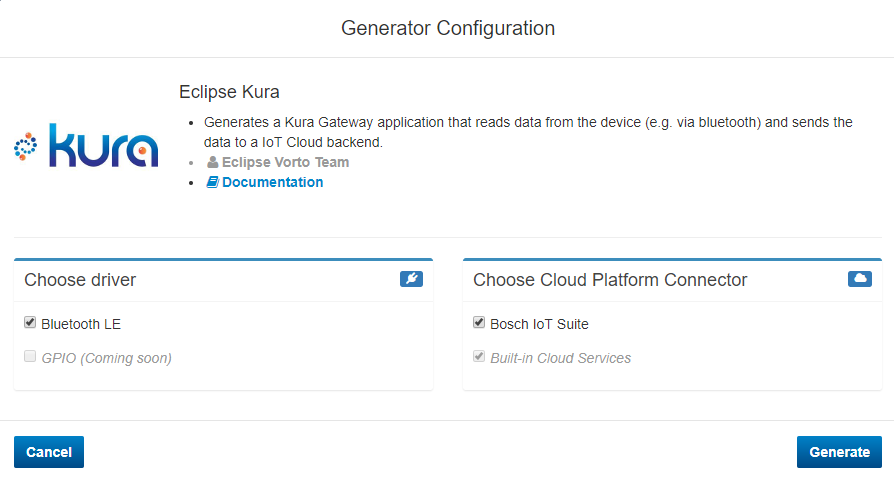
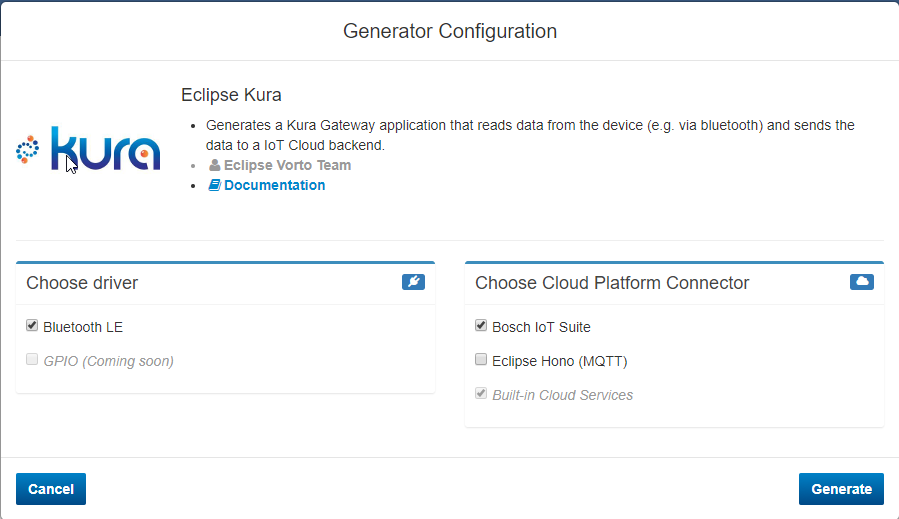
Modified the tutorial to reflect current state of the generator.

diff --git a/tutorials/tutorial_connect_xdk_ble.md b/tutorials/tutorial_connect_xdk_ble.md
@@ -6,7 +6,7 @@ In this tutorial you are going to learn how you can connect a bluetooth device t
 
 - You have successfully booked the following services:
 	- Bosch IoT Things Service
-	- Bosch IoT Permissions Service 
+	- Bosch IoT Permissions Service
 - [Publish](tutorial-create_and_publish_with_web_editor.md) an information model for the device to the Vorto Repository.    
 - [Register](tutorial_register_device.md) the device in the Bosch IoT Suite.
 
@@ -26,7 +26,7 @@ In this tutorial you are going to learn how you can connect a bluetooth device t
 2. Modify the Kura gateway on the Raspberry Pi
 
 - Change from OpenJDK to Oracle JDK
-	
+
 ```
 sudo apt-get install oracle-java8-jdk
 sudo update-alternatives --config java
@@ -72,7 +72,7 @@ More comprehensive tutorial here: <a href="http://eclipse.github.io/kura/dev/kur
 	<img src="./images/connect_xdk_kura/step5_4_1.png" width="50%"/>
 
 - Confirm your selection with **Generate**
-- Download the generated Kura bundle, unzip and import it to Eclipse workspace. The project will appear as _com.example.kura_.
+- Download the generated Kura bundle, unzip and import it to Eclipse workspace. The project will appear as _org.eclipse.vorto.kura.xdk_.
 - Add dependencies to XDK Kura bundle by executing `mvn dependency:copy-dependencies` in the root of the kura project
 - In Eclipse, refresh your project, then right-click on your project, go to _Plug-in Tools_, and click on _Update classpath_
 - Rebuild your project.
@@ -82,9 +82,9 @@ More comprehensive tutorial here: <a href="http://eclipse.github.io/kura/dev/kur
 - Download <a href="https://github.com/bsinno/iot-things-examples/blob/master/cr-integration-api-examples/common/src/main/resources/bosch-iot-cloud.jks">bosch-iot-cloud.jks</a> and store it in a "secret" folder of the kura project
 - Create a public and private key pair for your solution. Store the CRClient in the "secret" folder as well
 ```
-keytool -genkeypair -noprompt 
--dname "CN=-, OU=-, O=-, L=-, S=-, C=-" 
--keyalg EC -alias CR -sigalg SHA512withECDSA 
+keytool -genkeypair -noprompt
+-dname "CN=-, OU=-, O=-, L=-, S=-, C=-"
+-keyalg EC -alias CR -sigalg SHA512withECDSA
 -validity 365 -keystore CRClient.jks
 ```
 - Extract the public key information into a separate file
@@ -104,7 +104,7 @@ keytool -printcert -rfc -file CRClient_key.cer
 - The Virtual XDK Firmware
 
 The Virtual XDK firmware for the XDK was originally developed to show sensor values on mobile devices. As such, they were designed to give all sensor values as a stream in one go.
-The sensors value stream is started by writing '00' on UUID handle _0x0039_. You can then read the continues stream of sensor values at UUID handle _0x0034_ and _0x0036_. The _0x0034_ contains values for 
+The sensors value stream is started by writing '00' on UUID handle _0x0039_. You can then read the continues stream of sensor values at UUID handle _0x0034_ and _0x0036_. The _0x0034_ contains values for
 either a computed orientation or accelerometer and gyrometer. This behaviour is controlled by a flag that we will ask you to modify in Step #6. The _0x0036_ can be two streams. If it starts with 01,
 then it contains values for the light sensor, noise sensor, pressure, temperature, humidity, sd card status, and button 1/2 states. If it starts with 02, then it contains values for the magnetometer,
 and led states.
@@ -115,7 +115,7 @@ The Vorto-generated XDK Kura Bundle is an OSGI-compliant bundle generated by Vor
 which can simplify development for Kura and bluetooth LE devices. Its main class, the `XDKBluetoothFinder`, implements a scanner for bluetooth LE devices, and for each found device, adds a skeleton framework for filtering (`XDKDeviceFilter.java`),
 mapping to information model(`DeviceToXDKTransformer.java`), and consuming (`XDKConsumer.java`). It also implements a configuration system for enabling/disabling each function block (which allows it to be controlled from Kura's web application),
 and several other configurable properties.
-	
+
 ### 6. Flash Virtual XDK firmware
 
 - Download XDK workbench [<a href="https://xdk.bosch-connectivity.com/software-downloads">https://xdk.bosch-connectivity.com/software-downloads</a>]
@@ -127,27 +127,27 @@ and several other configurable properties.
 ### 7. Read temperature from Bluetooth in the XDK Kura Bundle
 
 - First, we filter for the devices that belong to us. With the Virtual XDK Firmware, any devices whose name starts with 'BCDS' is an XDK flashed with Virtual XDK. We use that predefined name to filter for devices.
-	In _XDKDeviceFilter.java_, change the `test` method to 
+	In _XDKDeviceFilter.java_, change the `test` method to
 	```
 	public boolean test(BluetoothDevice bluetoothDevice) {
 		return bluetoothDevice.getName().contains("BCDS");
 	}
 	```
-	
+
 - In _DeviceToXDKTransformer.java_, in the method `getResourceId(...)`, modify the method to how you intend to generate the ThingID of your XDK Thing. Make sure this aligns with the ThingID of the Thing you precommissioned in the Register step [<a href="https://github.com/eclipse/vorto/blob/development/tutorials/tutorial_register_device.md">Register</a>]
 	```
 	private String getResourceId(BluetoothDevice device) {
 		return "XDK:" + device.getAdress().replace(":", "");
 	}
 	```
-	
+
 - Create a new package in the Kura bundle, name it _com.example.kura.device_. We will put classes that implements reading from the XDK here.
 
 - In the new package, create a model class to hold the response data from the XDK. Let's also give it the responsibility to segregate string responses according to what type of sensor values it holds.
-	
+
 	Let's create the class _XDKSensorDataResponse_. You can download the full class here [<a href="https://github.com/eclipse/vorto/blob/development/tutorials/sample_codes/tutorial_connect_xdk_ble/XDKSensorDataResponse.txt">XDKSensorDataResponse.java</a>].
-	
-	Here are the juicy tidbits of this class. 
+
+	Here are the juicy tidbits of this class.
 	```
 	public boolean accept(String response) {
 		if (response != null) {
@@ -161,62 +161,62 @@ and several other configurable properties.
 			} else {
 				return false;
 			}
-			
+
 			return true;
 		}
-		
+
 		return false;
 	}
 	public boolean isComplete() {
 		return accAndGyro.isPresent() && environmentSensor.isPresent() && magnetometerLedStatus.isPresent();
 	}
-	
+
 	public boolean isPartiallyComplete() {
 		return accAndGyro.isPresent() || environmentSensor.isPresent() || magnetometerLedStatus.isPresent();
 	}
 	```
 	`accept(...)` accepts a string and classifies the type of information in it. The last two functions are helper functions to check if we have a complete set of sensor informations.
-	
+
 - In the new package, create our own implementation of Kura's bluetooth gatt. This is because Kura's implementation uses a different command to write a string, which doesn't trigger the Virtual XDK firmware.
 
 	Let's create a class called _XDKBluetoothGatt_ that implements _org.eclipse.kura.bluetooth.BluetoothGatt_. We are only interested in the functions for connecting, writing and reading to a UUID. The rest we can leave
 	to Eclipse's own default. You can download the entire class here [<a href="https://github.com/eclipse/vorto/blob/development/tutorials/sample_codes/tutorial_connect_xdk_ble/XDKBluetoothGatt.txt">XDKBluetoothGatt.java</a>].
-	
+
 	```
 	public boolean connect(String adapterId) throws KuraException {
 		return connect();
 	}
-	
-	public boolean connect() throws KuraException { 
+
+	public boolean connect() throws KuraException {
 		dataResponse = getSensorData(bluetoothAddress);  
-		return dataResponse.isComplete() || dataResponse.isPartiallyComplete(); 
+		return dataResponse.isComplete() || dataResponse.isPartiallyComplete();
 	}
-	
+
 	public void writeCharacteristicValue(String arg0, String arg1) {}
-	
+
 	public String readCharacteristicValue(String uuid) throws KuraException  {
 		if (uuid.equals("0x0034")) {
 			return dataResponse.getAccAndGyro().orElse(null);
 		} else if (uuid.equals("0x003601")) {
 			return dataResponse.getEnvironmentSensor().orElse(null);
 		} else if (uuid.equals("0x003602")) {
-			return dataResponse.getMagnetometerLedStatus().orElse(null); 
+			return dataResponse.getMagnetometerLedStatus().orElse(null);
 		}
-		
+
 		return null;
 	}
-	
+
 	private XDKSensorDataResponse getSensorData(String bluetoothAddress) {
 		XDKSensorDataResponse dataResponse = new XDKSensorDataResponse();
-		
+
 		try {
 			logger.info("Executing gatttool process now on " + bluetoothAddress);
-			Process process = new ProcessBuilder("gatttool", 
-					"--device=" + bluetoothAddress, "--char-write-req", "--value=00", 
+			Process process = new ProcessBuilder("gatttool",
+					"--device=" + bluetoothAddress, "--char-write-req", "--value=00",
 					"--handle=0x0039", "--listen").start();
 			logger.info("Process started.");
 			BufferedReader outputReader = new BufferedReader(new InputStreamReader(process.getInputStream()));
-			
+
 			ExecutorService processExecutorService = Executors.newSingleThreadExecutor();
 
 			boolean read = true;
@@ -228,34 +228,34 @@ and several other configurable properties.
 							return outputReader.readLine();
 						}
 					});
-					
+
 					dataResponse.accept(responseReader.get(5, TimeUnit.SECONDS));
-					
+
 					if (dataResponse.isComplete()) {
 						read = false;
 						process.destroy();
 					}
-					
+
 				} catch (TimeoutException e) {
 					logger.info("No more data to be read from bluetooth process.");
 					read = false;
 					process.destroy();
 				} catch (ExecutionException | InterruptedException e) {
 					logger.error("Error : ", e);
-				} 
+				}
 			}
-			
+
 			logger.info(dataResponse.toString());
-			
+
 		} catch (IOException e) {
 			logger.error("Error : ", e);
 		}
 		return dataResponse;
 	}
 	```
-	
+
 	The most important method here is `getSensorData()` which gets the sensor data from bluetooth using the gattool commandline tool, and then continually reads the result until we get a full set of sensor data.
-	
+
 - Replace the bluetooth gatt implementation in _DeviceToXDKTransformer.java_ to our implementation.
 	In the method `apply(...)`, change this line
 	```
@@ -267,8 +267,8 @@ and several other configurable properties.
 	```
 
 - Modify the code in _DeviceToXDKTransformer.java_ that actually reads the sensor values. We will use the _Temperature_ sensor as an example. You can download the entire class here [<a href="https://github.com/eclipse/vorto/blob/development/tutorials/sample_codes/tutorial_connect_xdk_ble/DeviceToXDKTransformer.txt">DeviceToXDKTransformer.java</a>].
-	- Find the method `getTemperature(...)` and modify to 
-	
+	- Find the method `getTemperature(...)` and modify to
+
 	```
 	private Temperature getTemperature(BluetoothGatt gatt) {
 		Temperature temperature = new Temperature();
@@ -288,7 +288,7 @@ and several other configurable properties.
 		return temperature;
 	}
 	```
-	
+
 
 ### 8. Prepare your Bosch IoT Things client library
 
@@ -321,7 +321,7 @@ Let us now deploy the XDK Kura bundle to the Kura gateway on the Raspberry Pi.
 
 	<img src="./images/connect_xdk_kura/step5_9_2.png"/>
 
-- Enable scanning 
+- Enable scanning
 
 	<img src="./images/connect_xdk_kura/step5_9_3.png"/>
 
@@ -332,11 +332,11 @@ Let us now deploy the XDK Kura bundle to the Kura gateway on the Raspberry Pi.
 ### 11. Verify incoming sensor data
 
 To check if the temperature sensor data is being sent successfully to the cloud, just execute the following curl command:
- 
+
 ```
-curl -X GET https://things.apps.bosch-iot-cloud.com/api/1/things?ids=ADD_THINGID_HERE 
--H "Authorization: Basic credentials" 
--H "Accept: application/json" 
+curl -X GET https://things.apps.bosch-iot-cloud.com/api/1/things?ids=ADD_THINGID_HERE
+-H "Authorization: Basic credentials"
+-H "Accept: application/json"
 -H "x-cr-api-token: apiToken"
 ```
 Alternatively, you can the see the incoming sensor data via the <a href="https://console.bosch-iot-suite.com">Bosch IoT Developer Console</a>
